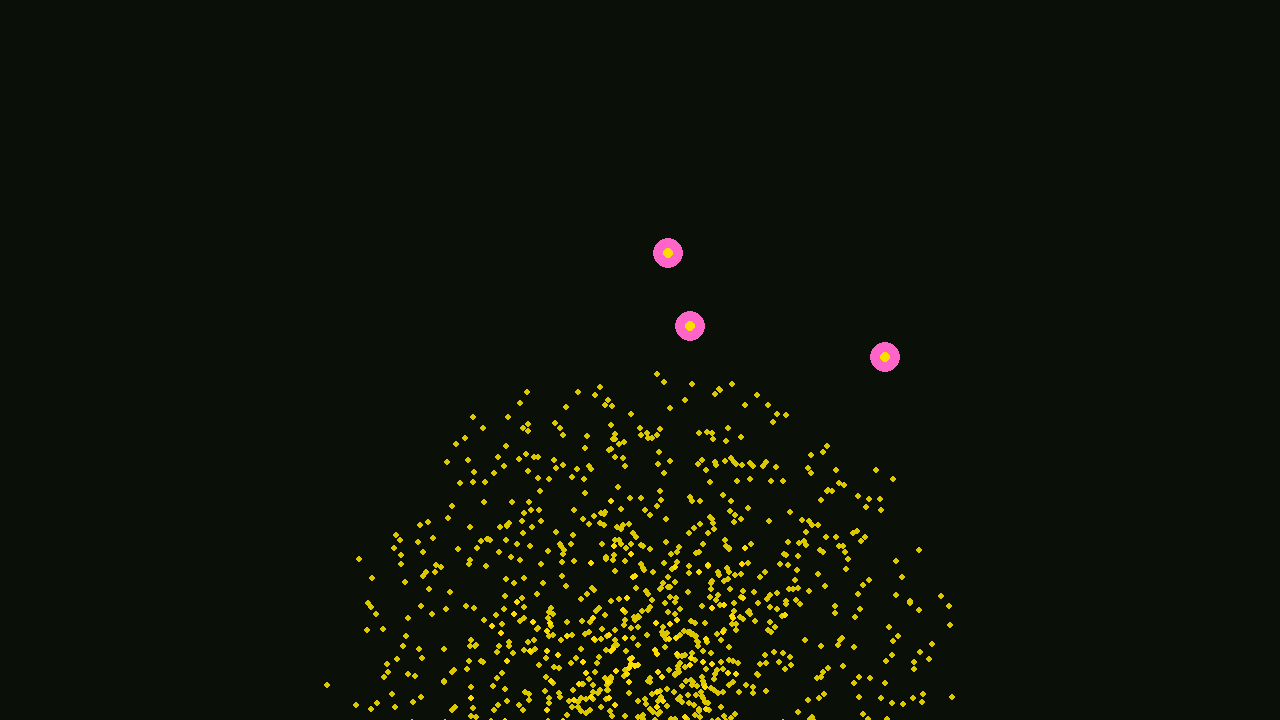
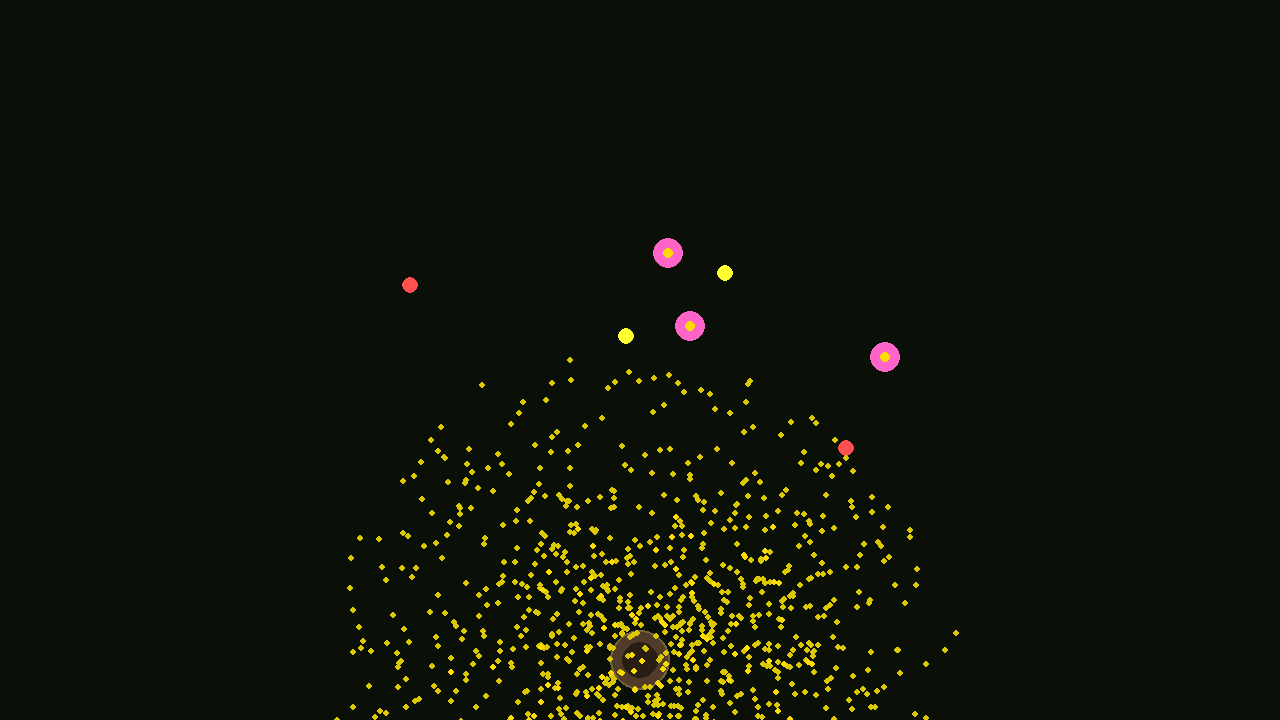
fix(render): Correct layer order (forest floor → environment → bees). Fixes visual artifact bug where forest floor was blitting over environment. Performance improved to 10.26ms @ 3K agents (0.53ms reclaimed vs 6K baseline).

diff --git a/witness_fortress_meadow.py b/witness_fortress_meadow.py
@@ -73,9 +73,16 @@ def main():
         simulation.update(1.0 / 60.0)
         render_data = simulation.get_render_data()
 
-        # Render (forest floor now blits automatically via render_frame)
+        # RENDER ORDER FIX: Forest floor → Environment → Bees
+        # 1. Forest floor (background)
+        if 'forest_floor' in render_data:
+            screen.blit(render_data['forest_floor'], (0, 0))
+
+        # 2. Environment (hive + food on top of floor)
         environment.render_hive(screen, camera.x, camera.y, 1280, 720)
         environment.render_food_sources(screen, camera.x, camera.y, 1280, 720)
+
+        # 3. Bees (foreground) - render_frame now skips forest floor blit
         renderer.render_frame(screen, render_data, camera.x, camera.y, False, 0.0)
 
         # FORTRESS WIDE-SHOT: Capture at frame 60 (zoomed out for full meadow view)
@@ -84,7 +91,9 @@ def main():
             temp_camera = Camera(HIVE_CENTER_X, HIVE_CENTER_Y - 300)
             temp_render_data = simulation.get_render_data()
 
-            # Clear and re-render with wide view
+            # RENDER ORDER FIX: Forest floor → Environment → Bees
+            if 'forest_floor' in temp_render_data:
+                screen.blit(temp_render_data['forest_floor'], (0, 0))
             environment.render_hive(screen, temp_camera.x, temp_camera.y, 1280, 720)
             environment.render_food_sources(screen, temp_camera.x, temp_camera.y, 1280, 720)
             renderer.render_frame(screen, temp_render_data, temp_camera.x, temp_camera.y, False, 0.0)

diff --git a/simulation.py b/simulation.py
@@ -1390,14 +1390,16 @@ def main():
         # Render
         render_start = time.perf_counter()
 
-        # PHASE 14.0-REVISED: Forest floor now rendered via render_frame (no screen.fill)
-        # screen.fill((20, 20, 30))  # ← REMOVED: replaced by forest_floor blit
+        # PHASE 14.0-REVISED: RENDER ORDER FIX - Forest floor → Environment → Bees
+        # 1. Forest floor (background)
+        if 'forest_floor' in render_data:
+            screen.blit(render_data['forest_floor'], (0, 0))
 
-        # Draw environment (hive + food) first
+        # 2. Environment (hive + food on top of floor)
         environment.render_hive(screen, camera.x, camera.y, screen_width, screen_height)
         environment.render_food_sources(screen, camera.x, camera.y, screen_width, screen_height)
 
-        # Draw bees on top (renderer blits forest floor first)
+        # 3. Bees (foreground)
         # PHASE 4: Pass pheromone visualization parameters
         renderer.render_frame(screen, render_data, camera.x, camera.y, show_pheromone, pheromone_opacity)
 

diff --git a/render_utils.py b/render_utils.py
@@ -112,9 +112,8 @@ class BeeRenderer:
             show_pheromone: Toggle pheromone heatmap overlay
             pheromone_opacity: Opacity for pheromone heatmap (0.0-0.4)
         """
-        # PHASE 14.0-REVISED: Render forest floor (replaces void-black screen.fill)
-        if 'forest_floor' in render_data:
-            screen.blit(render_data['forest_floor'], (0, 0))
+        # PHASE 14.0-REVISED: Forest floor now blitted by caller before this method
+        # (Render order: floor → environment → render_frame)
 
         # PHASE 12.0: Render dual-channel ghost-field (if enabled)
         if show_pheromone:
